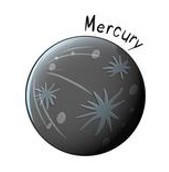
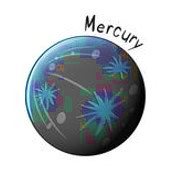
Tout changer au dernier moment ?

Changed region(s): [[0.1479, 0.2035, 0.7692, 0.6977], [0.503, 0.5233, 0.7101, 0.7558]]

diff --git a/MonProjet/components/HomePage.js b/MonProjet/components/HomePage.js
@@ -8,7 +8,7 @@ import {
   Image,
   TouchableOpacity,
   PropTypes,
-  Alert
+  Alert,
 } from "react-native";
 // import Dialog, { DialogContent } from "react-native-popup-dialog";
 import Dialog from "react-native-dialog";
@@ -18,84 +18,118 @@ import { createStackNavigator } from "@react-navigation/stack";
 import { TextInput, TouchableHighlight } from "react-native-gesture-handler";
 
 export default class HomePage extends Component {
+  constructor(props) {
+    super(props);
+    this.state = {
+      reussite: global.reussite,
+      help: 0,
+    };
+  }
+
   render() {
+    console.log("globalHome" + global.reussite);
+    console.log("state" + this.state.reussite);
+
     const { navigation } = this.props;
     // Affichage des planètes autour du Soleil
-    return (
-      <View style={{ alignItems: "center", backgroundColor: "white" }}>
-        <Text>{"\n"}</Text>
-        <View style={styles.lignePlanete}>
-          <TouchableOpacity
-            onPress={() =>
-              navigation.navigate("Jupiter", { affichages: "noir" })
-            }
-          >
-            <ImageBackground
-              source={require("./Images/jupiter1.jpg")}
-              style={{ width: 110, height: 110, marginTop: 60 }}
-            ></ImageBackground>
-          </TouchableOpacity>
-          <TouchableOpacity onPress={() => navigation.navigate("Saturne")}>
-            <ImageBackground
-              source={require("./Images/saturne1.jpg")}
-              style={{ width: 120, height: 100, marginBottom: 30 }}
-            ></ImageBackground>
-          </TouchableOpacity>
-          <TouchableOpacity onPress={() => navigation.navigate("Terre")}>
-            <ImageBackground
-              source={require("./Images/terre1.jpg")}
-              style={{ width: 110, height: 110, marginTop: 60 }}
-            ></ImageBackground>
-          </TouchableOpacity>
-        </View>
-        <View style={styles.lignePlanete}>
-          <TouchableOpacity onPress={() => navigation.navigate("Mars")}>
-            <ImageBackground
-              source={require("./Images/mars1.jpg")}
-              style={{ width: 110, height: 110 }}
-            ></ImageBackground>
-          </TouchableOpacity>
-          <TouchableOpacity onPress={() => navigation.navigate("Soleil")}>
-            <ImageBackground
-              source={require("./Images/soleil1.jpg")}
-              style={{ width: 140, height: 140, marginLeft: 10 }}
-            ></ImageBackground>
-          </TouchableOpacity>
-          <TouchableOpacity onPress={() => navigation.navigate("Terre")}>
-            <ImageBackground
-              source={require("./Images/mercure1.jpg")}
-              style={{ width: 110, height: 110 }}
-            ></ImageBackground>
-          </TouchableOpacity>
-        </View>
-        <View style={styles.lignePlanete}>
-          <TouchableOpacity onPress={() => navigation.navigate("Neptune")}>
-            <ImageBackground
-              source={require("./Images/neptune1.jpg")}
-              style={{ width: 110, height: 110, marginBottom: 30 }}
-            ></ImageBackground>
-          </TouchableOpacity>
-          <TouchableOpacity onPress={() => navigation.navigate("Uranus")}>
-            <ImageBackground
-              source={require("./Images/uranus1.jpg")}
-              style={{ width: 100, height: 113, marginTop: 40 }}
-            ></ImageBackground>
-          </TouchableOpacity>
-          <TouchableOpacity onPress={() => navigation.navigate("Venus")}>
-            <ImageBackground
-              source={require("./Images/venus1.jpg")}
-              style={{ width: 110, height: 110, marginBottom: 30 }}
-            ></ImageBackground>
-          </TouchableOpacity>
+
+    var imageJupiter = "";
+    if (global.reussite == 1) {
+      imageJupiter = (
+        <ImageBackground
+          source={require("./Images/jupiter1.jpg")}
+          style={{ width: 110, height: 110 }}
+        ></ImageBackground>
+      );
+    } else {
+      imageJupiter = (
+        <ImageBackground
+          source={require("./Images/jupiter1Noir.jpg")}
+          style={{ width: 110, height: 110 }}
+        ></ImageBackground>
+      );
+    }
+
+    var retour = (
+      <View
+        style={{
+          alignItems: "flex-end",
+        }}
+      >
+        <TouchableOpacity onPress={() => this.setState({ help: 1 })}>
+          <ImageBackground
+            source={require("./Images/refresh.png")}
+            style={{ width: 50, height: 50, marginRight: 10 }}
+          ></ImageBackground>
+        </TouchableOpacity>
+        <View style={{ alignItems: "center", backgroundColor: "white" }}>
+          <View style={styles.lignePlanete}>
+            <TouchableOpacity onPress={() => navigation.navigate("Mars")}>
+              <ImageBackground
+                source={require("./Images/mars1.jpg")}
+                style={{ width: 110, height: 110, marginTop: 60 }}
+              ></ImageBackground>
+            </TouchableOpacity>
+            <TouchableOpacity onPress={() => navigation.navigate("Saturne")}>
+              <ImageBackground
+                source={require("./Images/saturne1.jpg")}
+                style={{ width: 120, height: 100, marginBottom: 30 }}
+              ></ImageBackground>
+            </TouchableOpacity>
+            <TouchableOpacity onPress={() => navigation.navigate("Terre")}>
+              <ImageBackground
+                source={require("./Images/terre1.jpg")}
+                style={{ width: 110, height: 110, marginTop: 60 }}
+              ></ImageBackground>
+            </TouchableOpacity>
+          </View>
+          <View style={styles.lignePlanete}>
+            <TouchableOpacity onPress={() => navigation.navigate("Mercure")}>
+              <ImageBackground
+                source={require("./Images/mercure1Noir.jpg")}
+                style={{ width: 110, height: 110 }}
+              ></ImageBackground>
+            </TouchableOpacity>
+            <TouchableOpacity onPress={() => navigation.navigate("Soleil")}>
+              <ImageBackground
+                source={require("./Images/soleil1.jpg")}
+                style={{ width: 140, height: 140, marginLeft: 10 }}
+              ></ImageBackground>
+            </TouchableOpacity>
+            <TouchableOpacity onPress={() => navigation.navigate("Jupiter")}>
+              {imageJupiter}
+            </TouchableOpacity>
+          </View>
+          <View style={styles.lignePlanete}>
+            <TouchableOpacity onPress={() => navigation.navigate("Neptune")}>
+              <ImageBackground
+                source={require("./Images/neptune1Noir.jpg")}
+                style={{ width: 110, height: 110, marginBottom: 30 }}
+              ></ImageBackground>
+            </TouchableOpacity>
+            <TouchableOpacity onPress={() => navigation.navigate("Uranus")}>
+              <ImageBackground
+                source={require("./Images/uranus1Noir.jpg")}
+                style={{ width: 100, height: 113, marginTop: 40 }}
+              ></ImageBackground>
+            </TouchableOpacity>
+            <TouchableOpacity onPress={() => navigation.navigate("Venus")}>
+              <ImageBackground
+                source={require("./Images/venus1Noir.jpg")}
+                style={{ width: 110, height: 110, marginBottom: 30 }}
+              ></ImageBackground>
+            </TouchableOpacity>
+          </View>
         </View>
       </View>
     );
+    return <View>{retour}</View>;
   }
 }
 
 const styles = StyleSheet.create({
   lignePlanete: {
     alignItems: "center",
-    flexDirection: "row"
-  }
+    flexDirection: "row",
+  },
 });

diff --git a/MonProjet/components/Presentation.js b/MonProjet/components/Presentation.js
@@ -5,7 +5,7 @@ import {
   Button,
   TouchableOpacity,
   PropTypes,
-  Alert
+  Alert,
 } from "react-native";
 import Dialog from "react-native-dialog";
 import { Header } from "react-native-elements";
@@ -18,12 +18,12 @@ export default class Presentation extends Component {
   constructor(props) {
     super(props);
     this.state = {
-      visible: true
+      visible: true,
     };
   }
   onPressFermerLaPopUp = () => {
     this.setState({
-      visible: false
+      visible: false,
     });
   };
 
@@ -31,12 +31,11 @@ export default class Presentation extends Component {
     return (
       <View>
         <Dialog.Container visible={this.state.visible}>
-          <Dialog.Title>Bienvenue dans notre système solaire </Dialog.Title>
+          <Dialog.Title>De retour dans notre système solaire </Dialog.Title>
           <Dialog.Description>
-            Tu es ici dans le but d'aider Thomas à coloniser toutes les planètes
-            du système solaire. {"\n"}Sauras-tu l'aider dans cette tâche
-            difficile ? {"\n"}A toi de réussir tous les défis qui t'attendent...
-            Pour commencer, rends-toi sur Jupiter !
+            {"\n    "}
+            Tu as déjà bien avancé dans ta conquête des planètes ! {"\n    "}
+            Essaies maintenant de récupérer Jupiter.
           </Dialog.Description>
           <Dialog.Button label="Jouer" onPress={this.onPressFermerLaPopUp} />
         </Dialog.Container>

diff --git a/MonProjet/components/JouerJupiter1.js b/MonProjet/components/JouerJupiter1.js
@@ -78,7 +78,8 @@ export default class JouerJupiter1 extends Component {
   onPressBonneSolution = () => {
     this.setState({
       progression: this.state.progression + 0.34, // On ajoute 1/3 de la barre
-      press1: 0, // on remet le bouton gris
+      press1: 0, // on remet le bouton gris,
+      reponse: 0,
       valider: this.state.valider + 1, // ajouter 1 quand on passe à la phrase suivante pour afficher la fin (cf l88)
     });
     if (this.state.numeroPhrase < 2)
@@ -118,7 +119,7 @@ export default class JouerJupiter1 extends Component {
   };
 
   render() {
-    console.log(global.reussite);
+    console.log("jouerJup" + global.reussite);
 
     const { navigation } = this.props;
 
@@ -278,9 +279,7 @@ export default class JouerJupiter1 extends Component {
             </Dialog.Description>
             <Dialog.Button
               label="Retour à l'accueil"
-              onPress={() =>
-                navigation.navigate("Accueil", (global.reussite = 1))
-              }
+              onPress={() => navigation.navigate("Accueil")}
             />
           </Dialog.Container>
         </View>

diff --git a/MonProjet/components/AccueilJupiter.js b/MonProjet/components/AccueilJupiter.js
@@ -11,7 +11,7 @@ export default class AccueilJupiter extends Component {
   }
 
   render() {
-    console.log(global.reussite);
+    console.log("globalJup" + global.reussite);
     console.log(this.state.reussite);
     const { navigation } = this.props;
     var images = [];
@@ -25,7 +25,9 @@ export default class AccueilJupiter extends Component {
             style={styles.image}
           />
           <Text style={styles.instruction}>
-            Tu as déjà fait cette exercice {"\n"}Souhaites-tu rejouer ?
+            {"\n"}
+            Tu as déjà fait cet exercice. {"                             \n"}
+            Souhaites-tu rejouer ? {"\n"}
           </Text>
           <TouchableOpacity
             onPress={() => navigation.navigate("JouerJupiter1")}
@@ -84,5 +86,9 @@ const styles = StyleSheet.create({
     borderRadius: 8,
     padding: 6,
   },
-  image: { width: 200, height: 200, marginTop: 30 },
+  image: {
+    width: 200,
+    height: 200,
+    marginTop: 30,
+  },
 });
